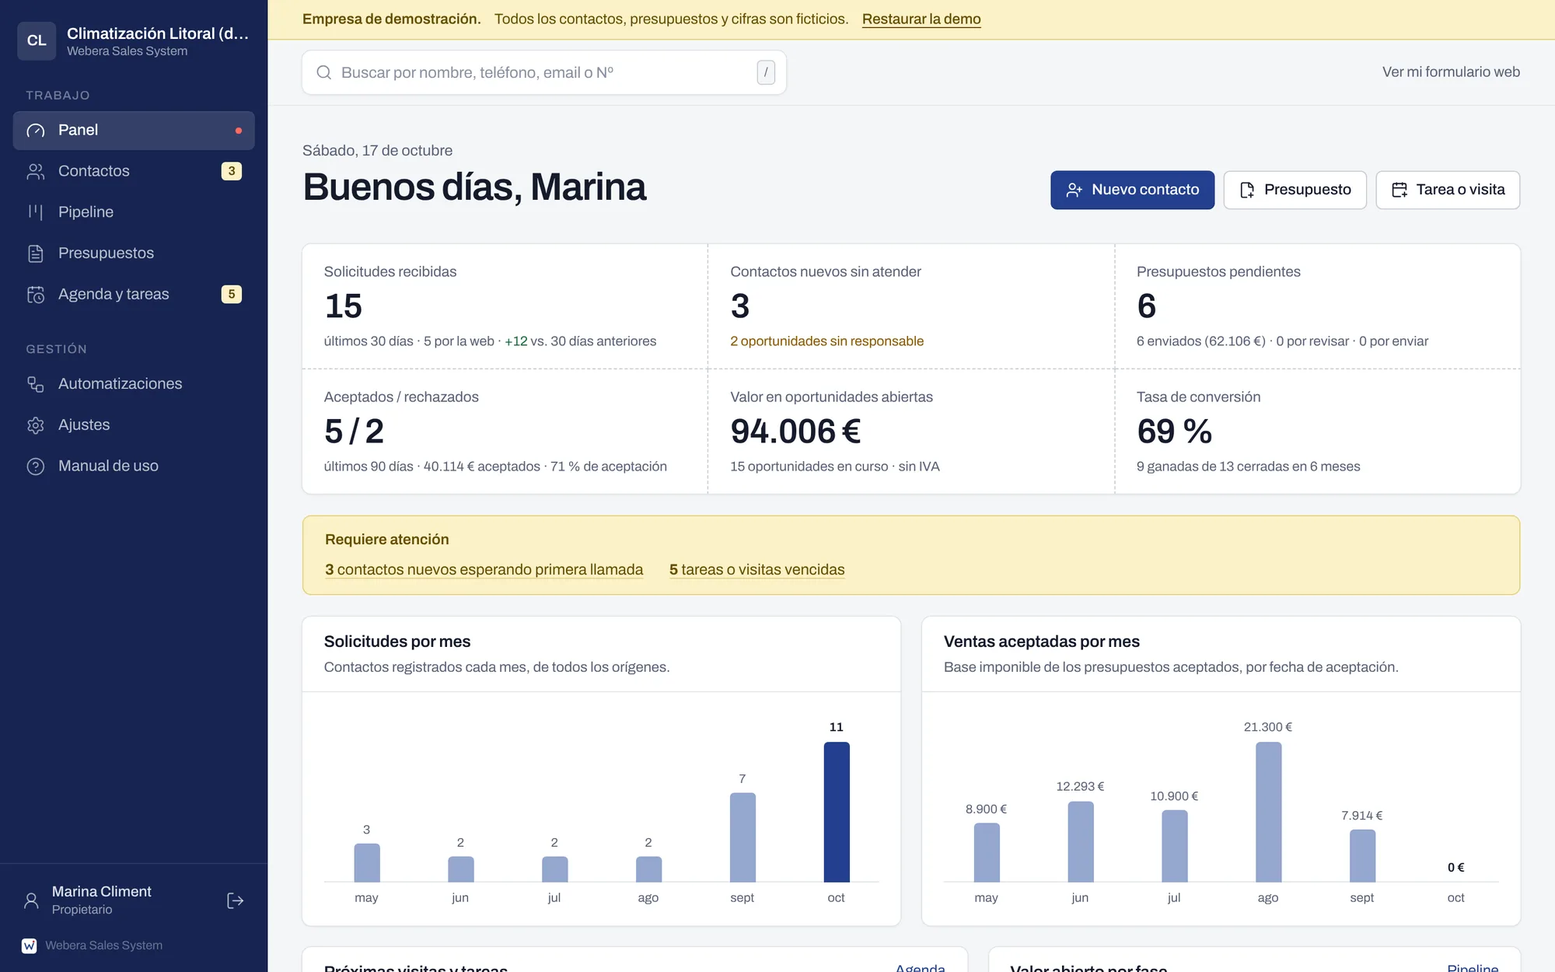
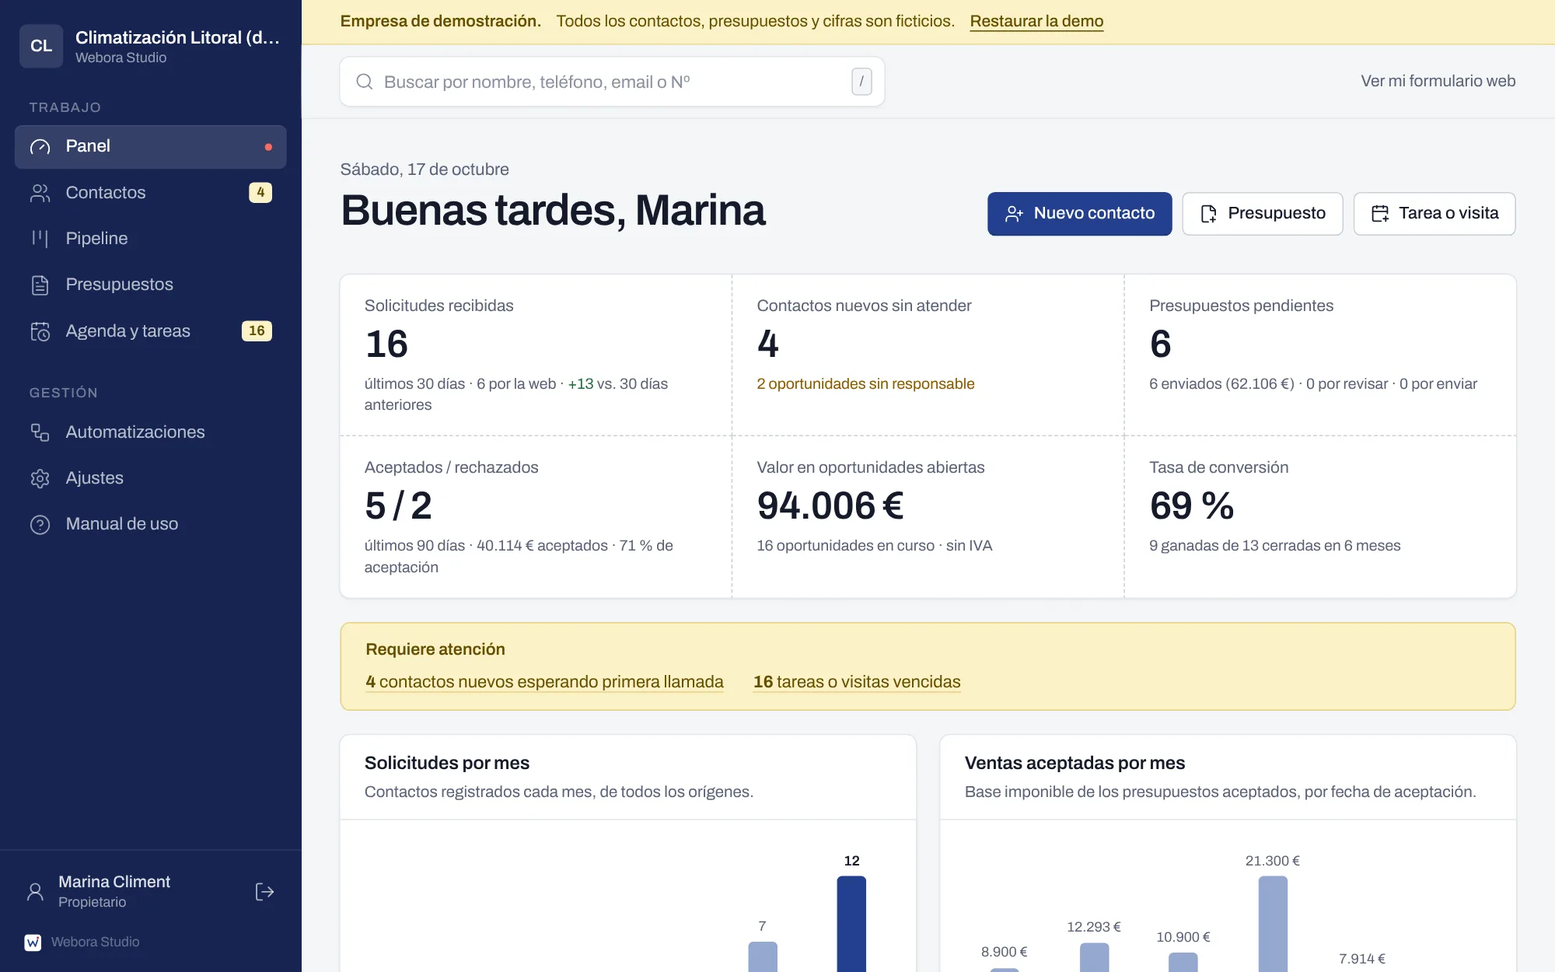
Cambio de marca: Webera → Webora Studio en la web, los correos y la documentación
- Todos los textos visibles, asuntos y remitentes de correo, el PDF del presupuesto y la portada.
- Capturas de la portada regeneradas con el nombre nuevo.
- Enlaces de los emails de prospección a https://weborastudio.es.
- Los identificadores internos (rol de base de datos, cookies, clave de cifrado) no cambian.

Claude-Session: https://claude.ai/code/session_011LAVKHahVgBnqWMa8uKTTK

diff --git a/src/app/page.tsx b/src/app/page.tsx
@@ -16,17 +16,17 @@ import { DemoForm } from "@/components/landing/demo-form";
 export const dynamic = "force-dynamic";
 
 export const metadata: Metadata = {
-  title: { absolute: "Webera · El sistema comercial para instaladores de climatización y placas solares" },
+  title: { absolute: "Webora Studio · El sistema comercial para instaladores de climatización y placas solares" },
   description:
     "Recibe las solicitudes de tu web, contesta al cliente al momento, reparte el trabajo y envía presupuestos que se aceptan desde el móvil. Para instaladores de aire acondicionado, aerotermia y placas solares.",
   robots: { index: true, follow: true },
   alternates: { canonical: "/" },
   openGraph: {
-    title: "Webera Sales System",
+    title: "Webora Studio",
     description: "Que ninguna solicitud se quede en el cajón. El sistema comercial para empresas instaladoras.",
     type: "website",
     locale: "es_ES",
-    images: [{ url: "/landing/panel.webp", width: 2000, height: 1250, alt: "Panel de Webera Sales System con datos de ejemplo" }],
+    images: [{ url: "/landing/panel.webp", width: 2000, height: 1250, alt: "Panel de Webora Studio con datos de ejemplo" }],
   },
 };
 
@@ -78,13 +78,13 @@ export default async function Home({ searchParams }: { searchParams: Promise<{ u
       <a href="#demo" className="sr-only focus:not-sr-only focus:absolute focus:top-2 focus:left-2 focus:z-50 focus:rounded focus:bg-sheet focus:px-3 focus:py-2">Ir al formulario</a>
 
       <header className="sticky top-0 z-30 border-b border-rule bg-[color-mix(in_oklab,var(--paper)_88%,transparent)] backdrop-blur">
-        <div className="mx-auto flex h-16 max-w-6xl items-center justify-between gap-4 px-4 md:px-6">
-          <Link href="/" aria-label="Webera, inicio"><WeberaWordmark sub="Sales System" /></Link>
+        <div className="mx-auto flex h-16 max-w-6xl items-center justify-between gap-2 px-4 sm:gap-4 md:px-6">
+          <Link href="/" aria-label="Webora Studio, inicio"><WeberaWordmark sub="Sales System" /></Link>
           <nav aria-label="Principal" className="flex items-center gap-1 text-[0.9rem]">
             <a href="#como-funciona" className="hidden rounded-md px-3 py-2 text-ink-2 hover:text-ink md:inline">Cómo funciona</a>
             <a href="#que-hace" className="hidden rounded-md px-3 py-2 text-ink-2 hover:text-ink md:inline">Qué hace solo</a>
             <a href="#preguntas" className="hidden rounded-md px-3 py-2 text-ink-2 hover:text-ink md:inline">Preguntas</a>
-            <Link href="/login" className="rounded-md px-3 py-2 text-ink-2 hover:text-ink">Acceder</Link>
+            <Link href="/login" className="rounded-md px-2 py-2 text-ink-2 hover:text-ink sm:px-3">Acceder</Link>
             <a href="#demo" className={buttonClass("primary", "md", "ml-1")}>Pedir demo</a>
           </nav>
         </div>
@@ -99,7 +99,7 @@ export default async function Home({ searchParams }: { searchParams: Promise<{ u
               Que ninguna solicitud se quede en el cajón.
             </h1>
             <p className="mt-5 max-w-xl text-[1.1rem] leading-relaxed text-ink-2 text-pretty">
-              Webera recibe las solicitudes de tu web, contesta al cliente al momento, reparte el trabajo entre tu equipo y envía presupuestos que tus clientes aceptan desde el móvil.
+              Webora Studio recibe las solicitudes de tu web, contesta al cliente al momento, reparte el trabajo entre tu equipo y envía presupuestos que tus clientes aceptan desde el móvil.
               Tú te dedicas a instalar.
             </p>
             <div className="mt-8 flex flex-wrap items-center gap-3">
@@ -214,7 +214,7 @@ export default async function Home({ searchParams }: { searchParams: Promise<{ u
             <div>
               <h2 className="text-[2rem] leading-tight font-semibold tracking-[-0.02em] text-balance">Pide una demostración.</h2>
               <p className="mt-4 text-[1.02rem] leading-relaxed text-ink-2">
-                Te enseñamos Webera con ejemplos de tu trabajo: cómo entra una solicitud, cómo sale un presupuesto y qué ves cada mañana. Sin compromiso.
+                Te enseñamos Webora Studio con ejemplos de tu trabajo: cómo entra una solicitud, cómo sale un presupuesto y qué ves cada mañana. Sin compromiso.
               </p>
               <ul className="mt-6 space-y-3 text-[0.95rem] text-ink-2">
                 <li className="flex gap-3"><MapPin className="mt-0.5 size-4 shrink-0 text-brand" strokeWidth={1.75} aria-hidden />Pensado para empresas instaladoras en España.</li>
@@ -235,7 +235,7 @@ export default async function Home({ searchParams }: { searchParams: Promise<{ u
             <a href="#demo" className="hover:text-ink">Pedir demo</a>
             <Link href="/login" className="hover:text-ink">Acceso clientes</Link>
           </div>
-          <p className="w-full text-[0.78rem] text-faint">© {new Date().getFullYear()} Webera · {env.appUrl.replace(/^https?:\/\//, "")}</p>
+          <p className="w-full text-[0.78rem] text-faint">© {new Date().getFullYear()} Webora Studio · {env.appUrl.replace(/^https?:\/\//, "")}</p>
         </div>
       </footer>
     </div>

diff --git a/src/server/platform-leads.ts b/src/server/platform-leads.ts
@@ -18,7 +18,7 @@ export type LeadStatus = keyof typeof LEAD_STATUS;
 export interface NewLead { name: string; company: string; email: string; phone: string | null; city: string | null; teamSize: TeamSize | null; message: string | null; source: string | null }
 
 /**
- * Guarda la solicitud de un instalador interesado y, si hay correo de Webera, avisa al equipo
+ * Guarda la solicitud de un instalador interesado y, si hay correo de Webora Studio, avisa al equipo
  * y le contesta al interesado. Si el correo falla, la solicitud queda guardada igualmente en /admin.
  */
 export async function createPlatformLead(l: NewLead) {
@@ -33,19 +33,19 @@ export async function createPlatformLead(l: NewLead) {
   if (!transport) return { id, emailed: false };
 
   const lines = [
-    `${l.name} (${l.company}) ha pedido una demostración de Webera Sales System.`,
+    `${l.name} (${l.company}) ha pedido una demostración de Webora Studio.`,
     `Email: ${l.email}`, l.phone ? `Teléfono: ${l.phone}` : null, l.city ? `Localidad: ${l.city}` : null,
     l.teamSize ? `Equipo: ${TEAM_SIZES[l.teamSize]}` : null, l.message ? `\nMensaje:\n${l.message}` : null,
     `\nVer y dar de alta: ${env.appUrl}/admin/solicitudes`,
   ].filter(Boolean).join("\n");
   const results = await Promise.allSettled([
-    ...notify.map((to) => sendEmail({ to, subject: `Nueva solicitud de demo: ${l.company}${l.city ? ` (${l.city})` : ""}`, text: lines, replyTo: l.email, fromName: "Webera" }, transport)),
+    ...notify.map((to) => sendEmail({ to, subject: `Nueva solicitud de demo: ${l.company}${l.city ? ` (${l.city})` : ""}`, text: lines, replyTo: l.email, fromName: "Webora Studio" }, transport)),
     ...(autoReply ? [sendEmail({
-      to: l.email, fromName: "Webera",
-      subject: "Hemos recibido tu solicitud · Webera Sales System",
-      text: `Hola, ${l.name.split(" ")[0]}:\n\nGracias por tu interés en Webera Sales System. Hemos recibido tu solicitud para ${l.company}.\n\n` +
+      to: l.email, fromName: "Webora Studio",
+      subject: "Hemos recibido tu solicitud · Webora Studio",
+      text: `Hola, ${l.name.split(" ")[0]}:\n\nGracias por tu interés en Webora Studio. Hemos recibido tu solicitud para ${l.company}.\n\n` +
         `Te escribiremos o te llamaremos muy pronto para enseñarte cómo funciona con ejemplos de tu día a día y resolver tus dudas.\n\n` +
-        `Si quieres adelantarnos algo, responde a este correo.\n\nUn saludo,\nWebera`,
+        `Si quieres adelantarnos algo, responde a este correo.\n\nUn saludo,\nWebora Studio`,
     }, transport)] : []),
   ]);
   for (const r of results) if (r.status === "rejected" || (r.status === "fulfilled" && r.value.status !== "accepted")) console.error("[solicitudes] correo", r.status === "fulfilled" ? r.value : r.reason);

diff --git a/src/app/admin/(panel)/correo/page.tsx b/src/app/admin/(panel)/correo/page.tsx
@@ -10,7 +10,7 @@ import { EmailConnectForm, TestEmailButton } from "@/components/email/connect-fo
 import { disconnectPlatformEmail, savePlatformEmail, sendPlatformTestEmail } from "../../platform-actions";
 import { NotifyForm } from "./notify-form";
 
-export const metadata: Metadata = { title: "Correo de Webera" };
+export const metadata: Metadata = { title: "Correo de Webora Studio" };
 
 export default async function PlatformEmailPage() {
   await requireAdmin();
@@ -18,7 +18,7 @@ export default async function PlatformEmailPage() {
   const own = st.own;
   return (
     <>
-      <PageHeader title="Correo de Webera"
+      <PageHeader title="Correo de Webora Studio"
         description="Desde este correo te llegan las solicitudes de demostración, se contesta automáticamente a cada interesado y salen los avisos de las empresas que aún no han conectado el suyo." />
       <div className="grid grid-cols-1 items-start gap-5 xl:grid-cols-[minmax(0,1.5fr)_minmax(0,1fr)]">
         <div className="space-y-5">
@@ -50,7 +50,7 @@ export default async function PlatformEmailPage() {
               {own && (
                 <div className="flex flex-wrap items-center gap-2 border-t border-rule pt-4">
                   <TestEmailButton test={sendPlatformTestEmail} />
-                  <ConfirmAction label="Desconectar" title="¿Desconectar el correo de Webera?" confirmLabel="Desconectar" action={disconnectPlatformEmail}>
+                  <ConfirmAction label="Desconectar" title="¿Desconectar el correo de Webora Studio?" confirmLabel="Desconectar" action={disconnectPlatformEmail}>
                     Se borrará la contraseña guardada. Dejarán de llegarte avisos de solicitudes por email.
                   </ConfirmAction>
                 </div>
@@ -58,7 +58,7 @@ export default async function PlatformEmailPage() {
             </div>
           </Sheet>
           <Sheet>
-            <SheetHeader title={own ? "Cambiar el correo conectado" : "Conectar el correo de Webera"}
+            <SheetHeader title={own ? "Cambiar el correo conectado" : "Conectar el correo de Webora Studio"}
               description="Lo más rápido: una cuenta de Gmail con una contraseña de aplicación. Con tu dominio quedará más profesional." />
             <EmailConnectForm own={own} save={savePlatformEmail} />
           </Sheet>

diff --git a/src/components/email/connect-form.tsx b/src/components/email/connect-form.tsx
@@ -19,7 +19,7 @@ const ext = "text-brand underline underline-offset-2";
 
 type EmailAction = (prev: ActionState, fd: FormData) => Promise<ActionState>;
 
-/** Lo usan tanto cada empresa (Ajustes › Correo) como Webera (/admin/correo): cambia solo la acción de guardar. */
+/** Lo usan tanto cada empresa (Ajustes › Correo) como Webora Studio (/admin/correo): cambia solo la acción de guardar. */
 export function EmailConnectForm({ own, save }: { own: CompanyEmailStatus["own"]; save: EmailAction }) {
   const [provider, setProvider] = useState<CompanyEmailProvider>(own?.provider ?? "gmail");
   const [state, action, pending] = useActionState(save, {});
@@ -53,7 +53,7 @@ export function EmailConnectForm({ own, save }: { own: CompanyEmailStatus["own"]
           <Notice kind="info" title="Cómo conseguir la contraseña de aplicación (1 minuto)">
             <ol className="mt-1 list-decimal space-y-1 pl-5">
               <li>Activa la <a className={ext} href="https://myaccount.google.com/signinoptions/twosv" target="_blank" rel="noreferrer">verificación en 2 pasos</a> de tu cuenta de Google, si no la tienes.</li>
-              <li>Abre <a className={ext} href="https://myaccount.google.com/apppasswords" target="_blank" rel="noreferrer">Contraseñas de aplicaciones</a>, escribe «Webera» y pulsa Crear.</li>
+              <li>Abre <a className={ext} href="https://myaccount.google.com/apppasswords" target="_blank" rel="noreferrer">Contraseñas de aplicaciones</a>, escribe «Webora Studio» y pulsa Crear.</li>
               <li>Copia las 16 letras que aparecen y pégalas aquí abajo.</li>
             </ol>
             <p className="mt-2">No es la contraseña de tu Gmail: es una clave aparte que puedes anular cuando quieras.</p>

diff --git a/src/components/landing/demo-form.tsx b/src/components/landing/demo-form.tsx
@@ -14,7 +14,7 @@ export function DemoForm({ token, source }: { token: string; source?: string }) 
       <div role="status" className="flex flex-col items-start gap-3 py-6">
         <CircleCheck className="size-9 text-ok" strokeWidth={1.6} aria-hidden />
         <p className="text-[1.25rem] font-semibold text-ink">¡Recibido!</p>
-        <p className="max-w-md text-[0.98rem] text-ink-2">Te escribiremos muy pronto para enseñarte Webera con ejemplos de tu día a día. Si nos has dejado tu email, revisa también la carpeta de spam.</p>
+        <p className="max-w-md text-[0.98rem] text-ink-2">Te escribiremos muy pronto para enseñarte Webora Studio con ejemplos de tu día a día. Si nos has dejado tu email, revisa también la carpeta de spam.</p>
       </div>
     );
   }
@@ -47,7 +47,7 @@ export function DemoForm({ token, source }: { token: string; source?: string }) 
       </Field>
       <label className="flex cursor-pointer items-start gap-3 text-[0.85rem] text-ink-2">
         <input type="checkbox" name="consent" className="mt-0.5 size-[18px] shrink-0 cursor-pointer rounded accent-[var(--brand)]" />
-        <span>Acepto que Webera use estos datos solo para contactarme sobre esta solicitud. No se ceden a terceros y puedo pedir que se borren respondiendo a cualquiera de sus correos.</span>
+        <span>Acepto que Webora Studio use estos datos solo para contactarme sobre esta solicitud. No se ceden a terceros y puedo pedir que se borren respondiendo a cualquiera de sus correos.</span>
       </label>
       {e.consent && <p className="text-[0.8rem] text-danger">{e.consent}</p>}
       <SubmitButton className="h-12 w-full text-[1rem] sm:w-auto sm:px-6" pendingLabel="Enviando…">Pedir una demostración</SubmitButton>

diff --git a/src/app/(app)/ayuda/page.tsx b/src/app/(app)/ayuda/page.tsx
@@ -101,7 +101,7 @@ export default async function HelpPage() {
           <p>Tiene protección contra spam (campo oculto, tiempo mínimo y límite de envíos), pide solo los datos imprescindibles e incluye la información de protección de datos con casilla de consentimiento. Revisa ese texto con tu asesoría y enlaza tu política de privacidad desde <Link href="/ajustes/formulario">Ajustes › Formulario web</Link>.</p>
 
           <H id="datos">Importar, exportar y copias</H>
-          <p>Desde <Link href="/ajustes/datos">Ajustes › Importar, exportar y demo</Link> puedes descargar contactos y presupuestos en CSV (se abre en Excel) y, si eres propietario, una copia completa en JSON. Las copias de seguridad automáticas de la base de datos dependen del proveedor contratado; Webera te indicará cuál está activa.</p>
+          <p>Desde <Link href="/ajustes/datos">Ajustes › Importar, exportar y demo</Link> puedes descargar contactos y presupuestos en CSV (se abre en Excel) y, si eres propietario, una copia completa en JSON. Las copias de seguridad automáticas de la base de datos dependen del proveedor contratado; Webora Studio te indicará cuál está activa.</p>
 
           <H id="equipo">Usuarios y permisos</H>
           <p>Cada persona entra con su email. Hay cuatro roles: <strong>Propietario</strong> (todo), <strong>Administrador</strong> (todo salvo usuarios), <strong>Comercial</strong> (contactos, tareas y presupuestos, sin revisar ni configurar) y <strong>Solo lectura</strong>. Los datos de tu empresa son inaccesibles para cualquier otra empresa que use el sistema.</p>

diff --git a/src/app/admin/platform-actions.ts b/src/app/admin/platform-actions.ts
@@ -31,7 +31,7 @@ export async function updatePlatformLead(fd: FormData) {
 }
 
 // ---------------------------------------------------------------------------
-// Correo de Webera
+// Correo de Webora Studio
 // ---------------------------------------------------------------------------
 async function runPlatformTest(to: string): Promise<{ ok: boolean; error?: string }> {
   return withSystem(async (tx) => {
@@ -40,9 +40,9 @@ async function runPlatformTest(to: string): Promise<{ ok: boolean; error?: strin
     const transport = await loadPlatformTransport(tx);
     if (!transport) return { ok: false, error: "No se ha podido leer la configuración guardada. Vuelve a escribir la contraseña." };
     const r = await sendEmail({
-      to, fromName: "Webera",
-      subject: "Prueba de correo · Consola Webera",
-      text: `Si estás leyendo esto, el correo de Webera funciona.\n\nDesde ${row.from_email} saldrán los avisos de nuevas solicitudes de demostración, la respuesta automática a los interesados y los avisos de las empresas que aún no han conectado su propio correo.`,
+      to, fromName: "Webora Studio",
+      subject: "Prueba de correo · Consola Webora Studio",
+      text: `Si estás leyendo esto, el correo de Webora Studio funciona.\n\nDesde ${row.from_email} saldrán los avisos de nuevas solicitudes de demostración, la respuesta automática a los interesados y los avisos de las empresas que aún no han conectado su propio correo.`,
     }, transport);
     const ok = r.status === "accepted";
     const error = ok ? null : friendlyEmailError(r.error, row.provider);

diff --git a/src/app/admin/(panel)/solicitudes/page.tsx b/src/app/admin/(panel)/solicitudes/page.tsx
@@ -52,7 +52,7 @@ export default async function LeadsPage({ searchParams }: { searchParams: Promis
 
       {!mail.own && !mail.envConfigured && (
         <Notice kind="warn" className="mb-5" title="Las solicitudes no te llegan por email">
-          Se guardan aquí, pero para recibir un aviso en tu correo (y que el interesado reciba una respuesta automática) <Link href="/admin/correo" className="font-medium underline underline-offset-2">conecta el correo de Webera</Link>.
+          Se guardan aquí, pero para recibir un aviso en tu correo (y que el interesado reciba una respuesta automática) <Link href="/admin/correo" className="font-medium underline underline-offset-2">conecta el correo de Webora Studio</Link>.
         </Notice>
       )}
 
@@ -69,7 +69,7 @@ export default async function LeadsPage({ searchParams }: { searchParams: Promis
       {leads.length === 0 ? (
         <Sheet>
           <EmptyState title={filter === "abiertas" ? "No hay solicitudes por atender" : "No hay solicitudes aquí"}>
-            Comparte la página pública de Webera para que los instaladores pidan su demostración. Añade <span className="font-mono">?utm_source=…</span> al enlace para saber de dónde viene cada uno.
+            Comparte la página pública de Webora Studio para que los instaladores pidan su demostración. Añade <span className="font-mono">?utm_source=…</span> al enlace para saber de dónde viene cada uno.
           </EmptyState>
         </Sheet>
       ) : (

diff --git a/src/app/admin/login/page.tsx b/src/app/admin/login/page.tsx
@@ -4,7 +4,7 @@ import { getAdminSession } from "@/lib/auth/admin-session";
 import { WeberaWordmark } from "@/components/brand/webera-mark";
 import { AdminLoginForm } from "./form";
 
-export const metadata: Metadata = { title: "Consola Webera" };
+export const metadata: Metadata = { title: "Consola Webora Studio" };
 
 export default async function AdminLoginPage() {
   if (await getAdminSession()) redirect("/admin");
@@ -18,7 +18,7 @@ export default async function AdminLoginPage() {
         <WeberaWordmark tone="light" sub="Consola de plataforma" />
         <div className="mt-8 rounded-xl bg-sheet p-6 shadow-[0_30px_80px_-20px_rgb(0_0_0/0.6)] ring-1 ring-white/10 sm:p-7">
           <h1 className="text-[1.35rem] font-semibold tracking-[-0.015em]">Acceso de administración</h1>
-          <p className="mt-1 mb-6 text-[0.9rem] text-muted">Solo para el equipo de Webera. Los clientes entran por <a href="/login" className="text-brand underline">/login</a>.</p>
+          <p className="mt-1 mb-6 text-[0.9rem] text-muted">Solo para el equipo de Webora Studio. Los clientes entran por <a href="/login" className="text-brand underline">/login</a>.</p>
           <AdminLoginForm />
         </div>
         <p className="mt-6 text-center text-[0.75rem] text-white/45">Los accesos quedan registrados.</p>

diff --git a/src/components/brand/webera-mark.tsx b/src/components/brand/webera-mark.tsx
@@ -1,6 +1,6 @@
 import { cn } from "@/lib/cn";
 
-/** Marca de Webera: una «W» trazada como una firma de bolígrafo, con el punto rojo del folio. */
+/** Marca de Webora Studio: una «W» trazada como una firma de bolígrafo, con el punto rojo del folio. */
 export function WeberaMark({ size = 28, className, tone = "ink" }: { size?: number; className?: string; tone?: "ink" | "light" }) {
   return (
     <svg width={size} height={size} viewBox="0 0 32 32" aria-hidden className={cn("shrink-0", className)}>
@@ -16,7 +16,7 @@ export function WeberaWordmark({ className, tone = "ink", sub }: { className?: s
     <span className={cn("inline-flex items-center gap-2.5", className)}>
       <WeberaMark tone={tone === "ink" ? "ink" : "light"} />
       <span className="leading-none">
-        <span className={cn("block text-[1.05rem] font-semibold tracking-[-0.02em]", tone === "ink" ? "text-ink" : "text-white")}>Webera</span>
+        <span className={cn("block whitespace-nowrap text-[1.05rem] font-semibold tracking-[-0.02em]", tone === "ink" ? "text-ink" : "text-white")}>Webora Studio</span>
         {sub && <span className={cn("mt-0.5 block text-[0.7rem] tracking-[0.01em]", tone === "ink" ? "text-muted" : "text-white/55")}>{sub}</span>}
       </span>
     </span>

diff --git a/src/app/(app)/ajustes/correo/page.tsx b/src/app/(app)/ajustes/correo/page.tsx
@@ -48,7 +48,7 @@ export default async function EmailSettingsPage() {
                 <p className="font-medium text-ink">Todavía no has conectado ningún correo</p>
                 <p className="text-[0.82rem] text-muted">
                   {st.platformConfigured
-                    ? "Mientras tanto, los avisos salen desde el correo general de Webera."
+                    ? "Mientras tanto, los avisos salen desde el correo general de Webora Studio."
                     : "Mientras tanto, los avisos se quedan dentro de la aplicación (en Automatizaciones) y no llegan por email."}
                 </p>
               </div>
@@ -72,7 +72,7 @@ export default async function EmailSettingsPage() {
       </Sheet>
 
       <Notice kind="info" title="Tu contraseña está protegida">
-        Se guarda cifrada y nunca se vuelve a mostrar, ni a ti ni al equipo de Webera. Solo se usa para enviar los avisos de tu empresa.
+        Se guarda cifrada y nunca se vuelve a mostrar, ni a ti ni al equipo de Webora Studio. Solo se usa para enviar los avisos de tu empresa.
       </Notice>
     </div>
   );

diff --git a/src/app/admin/(panel)/equipo/page.tsx b/src/app/admin/(panel)/equipo/page.tsx
@@ -8,7 +8,7 @@ import { Chip } from "@/components/ui/chip";
 import { toggleAdmin } from "../../actions";
 import { NewAdminForm, OwnPasswordForm } from "./forms";
 
-export const metadata: Metadata = { title: "Equipo Webera" };
+export const metadata: Metadata = { title: "Equipo Webora Studio" };
 
 export default async function TeamPage() {
   const s = await requireAdmin();
@@ -16,7 +16,7 @@ export default async function TeamPage() {
     `select id, name, email, active, last_login_at from platform_admins order by active desc, name`));
   return (
     <>
-      <PageHeader title="Equipo Webera" description="Personas con acceso a esta consola. Tienen control total sobre todas las empresas: dalo solo a quien lo necesite." />
+      <PageHeader title="Equipo Webora Studio" description="Personas con acceso a esta consola. Tienen control total sobre todas las empresas: dalo solo a quien lo necesite." />
       <div className="grid grid-cols-1 items-start gap-5 xl:grid-cols-[minmax(0,1.4fr)_minmax(0,1fr)]">
         <div className="space-y-5">
           <Sheet>
